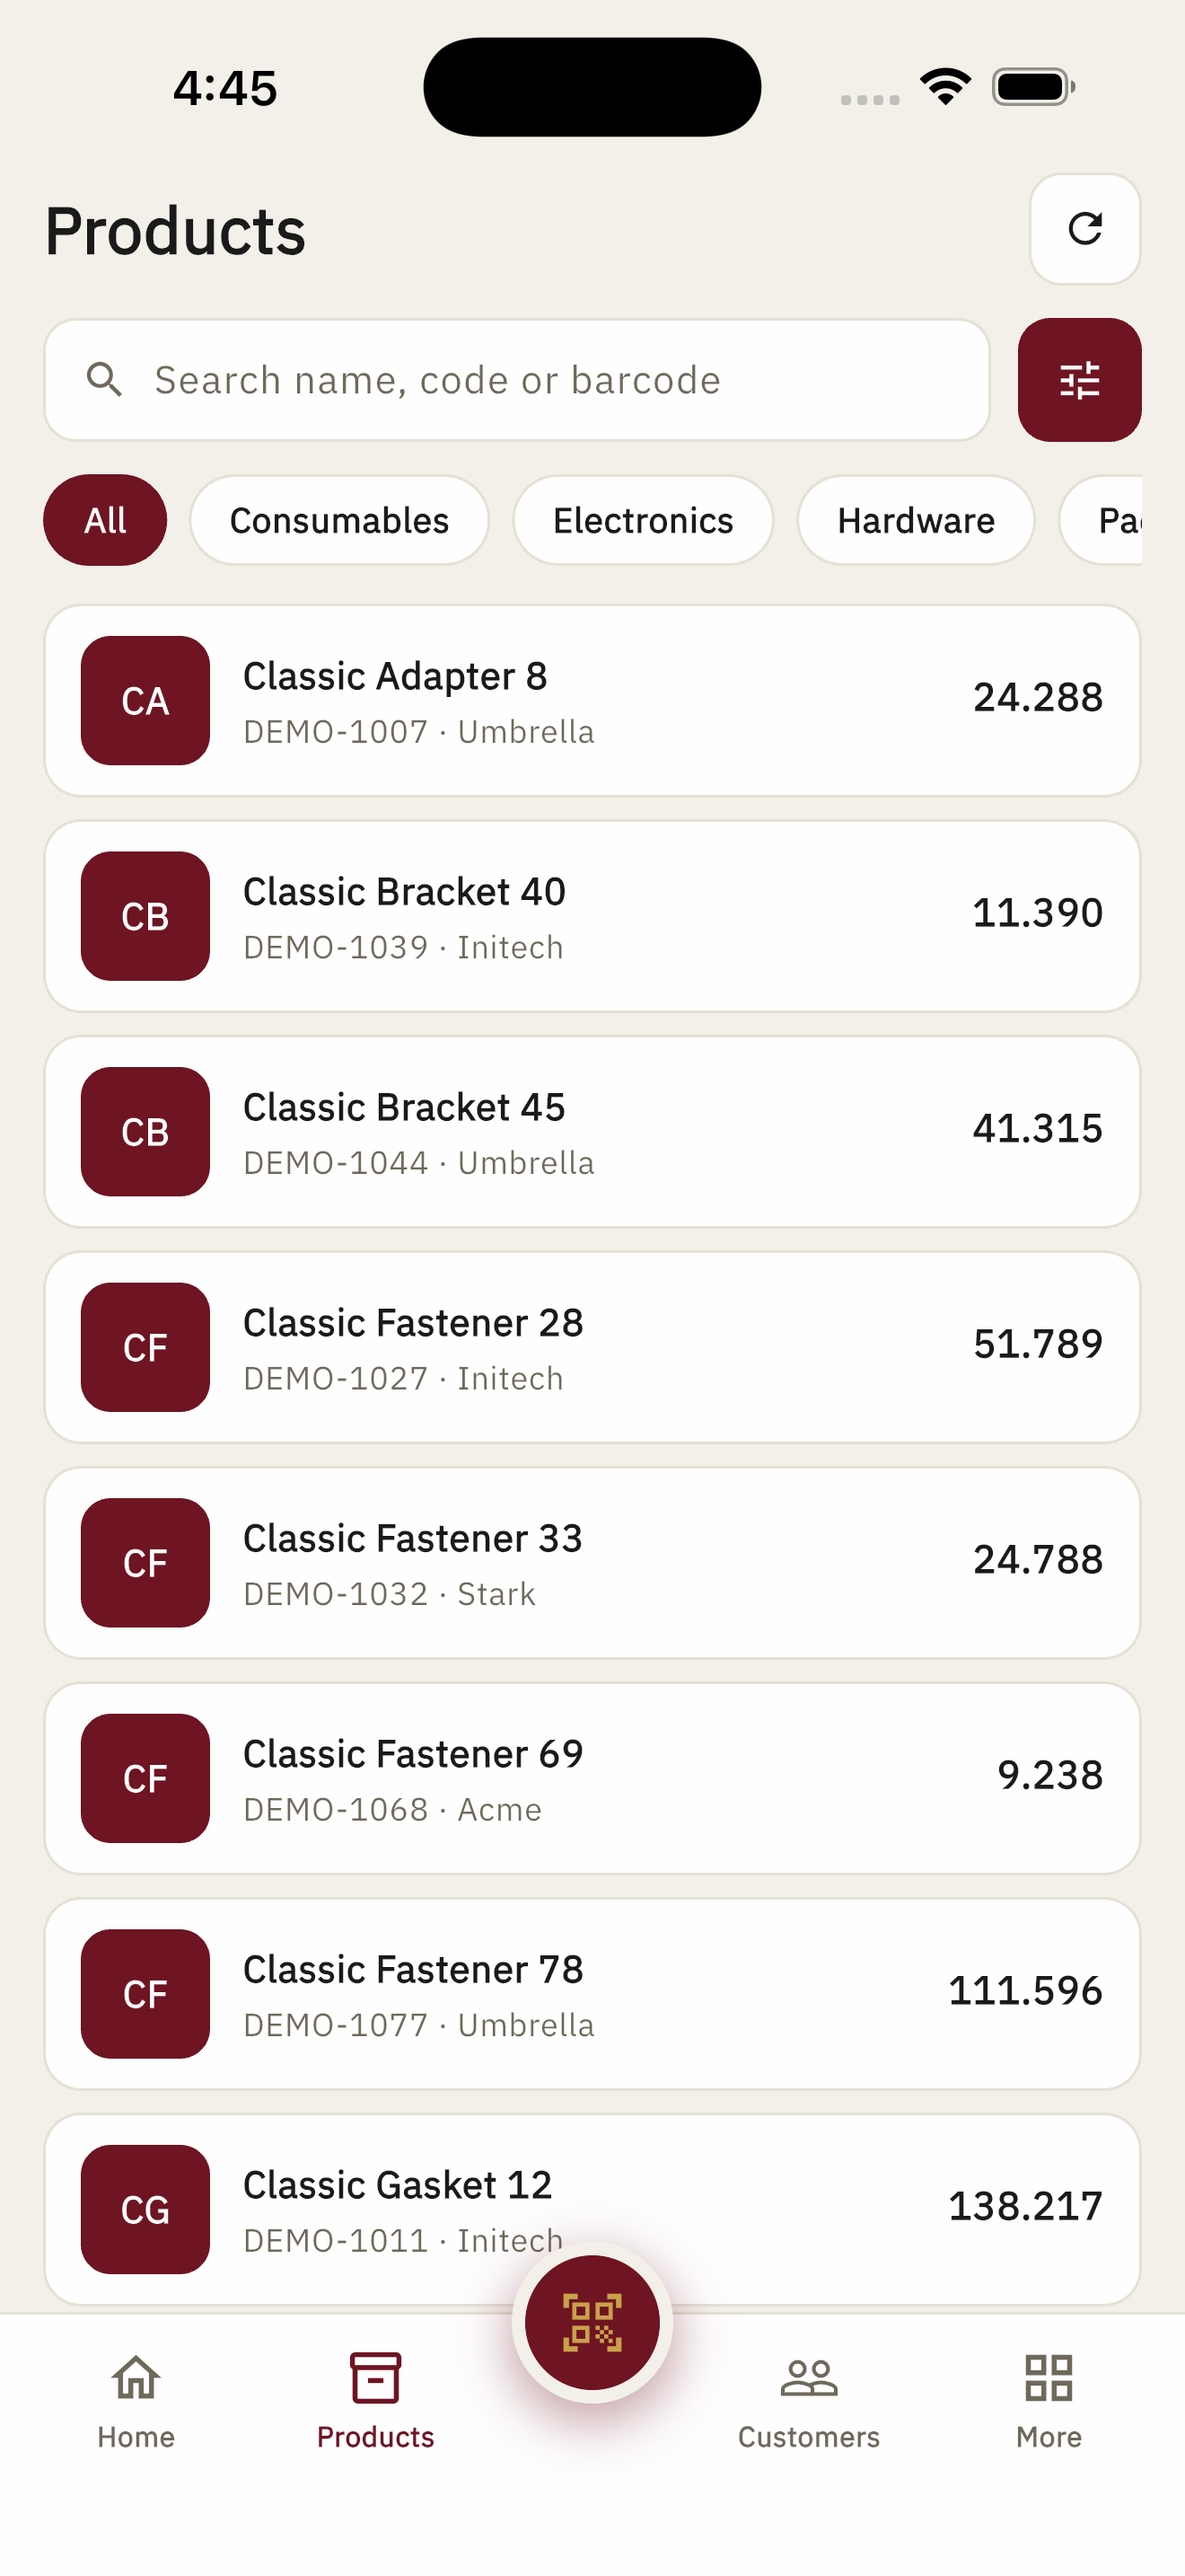
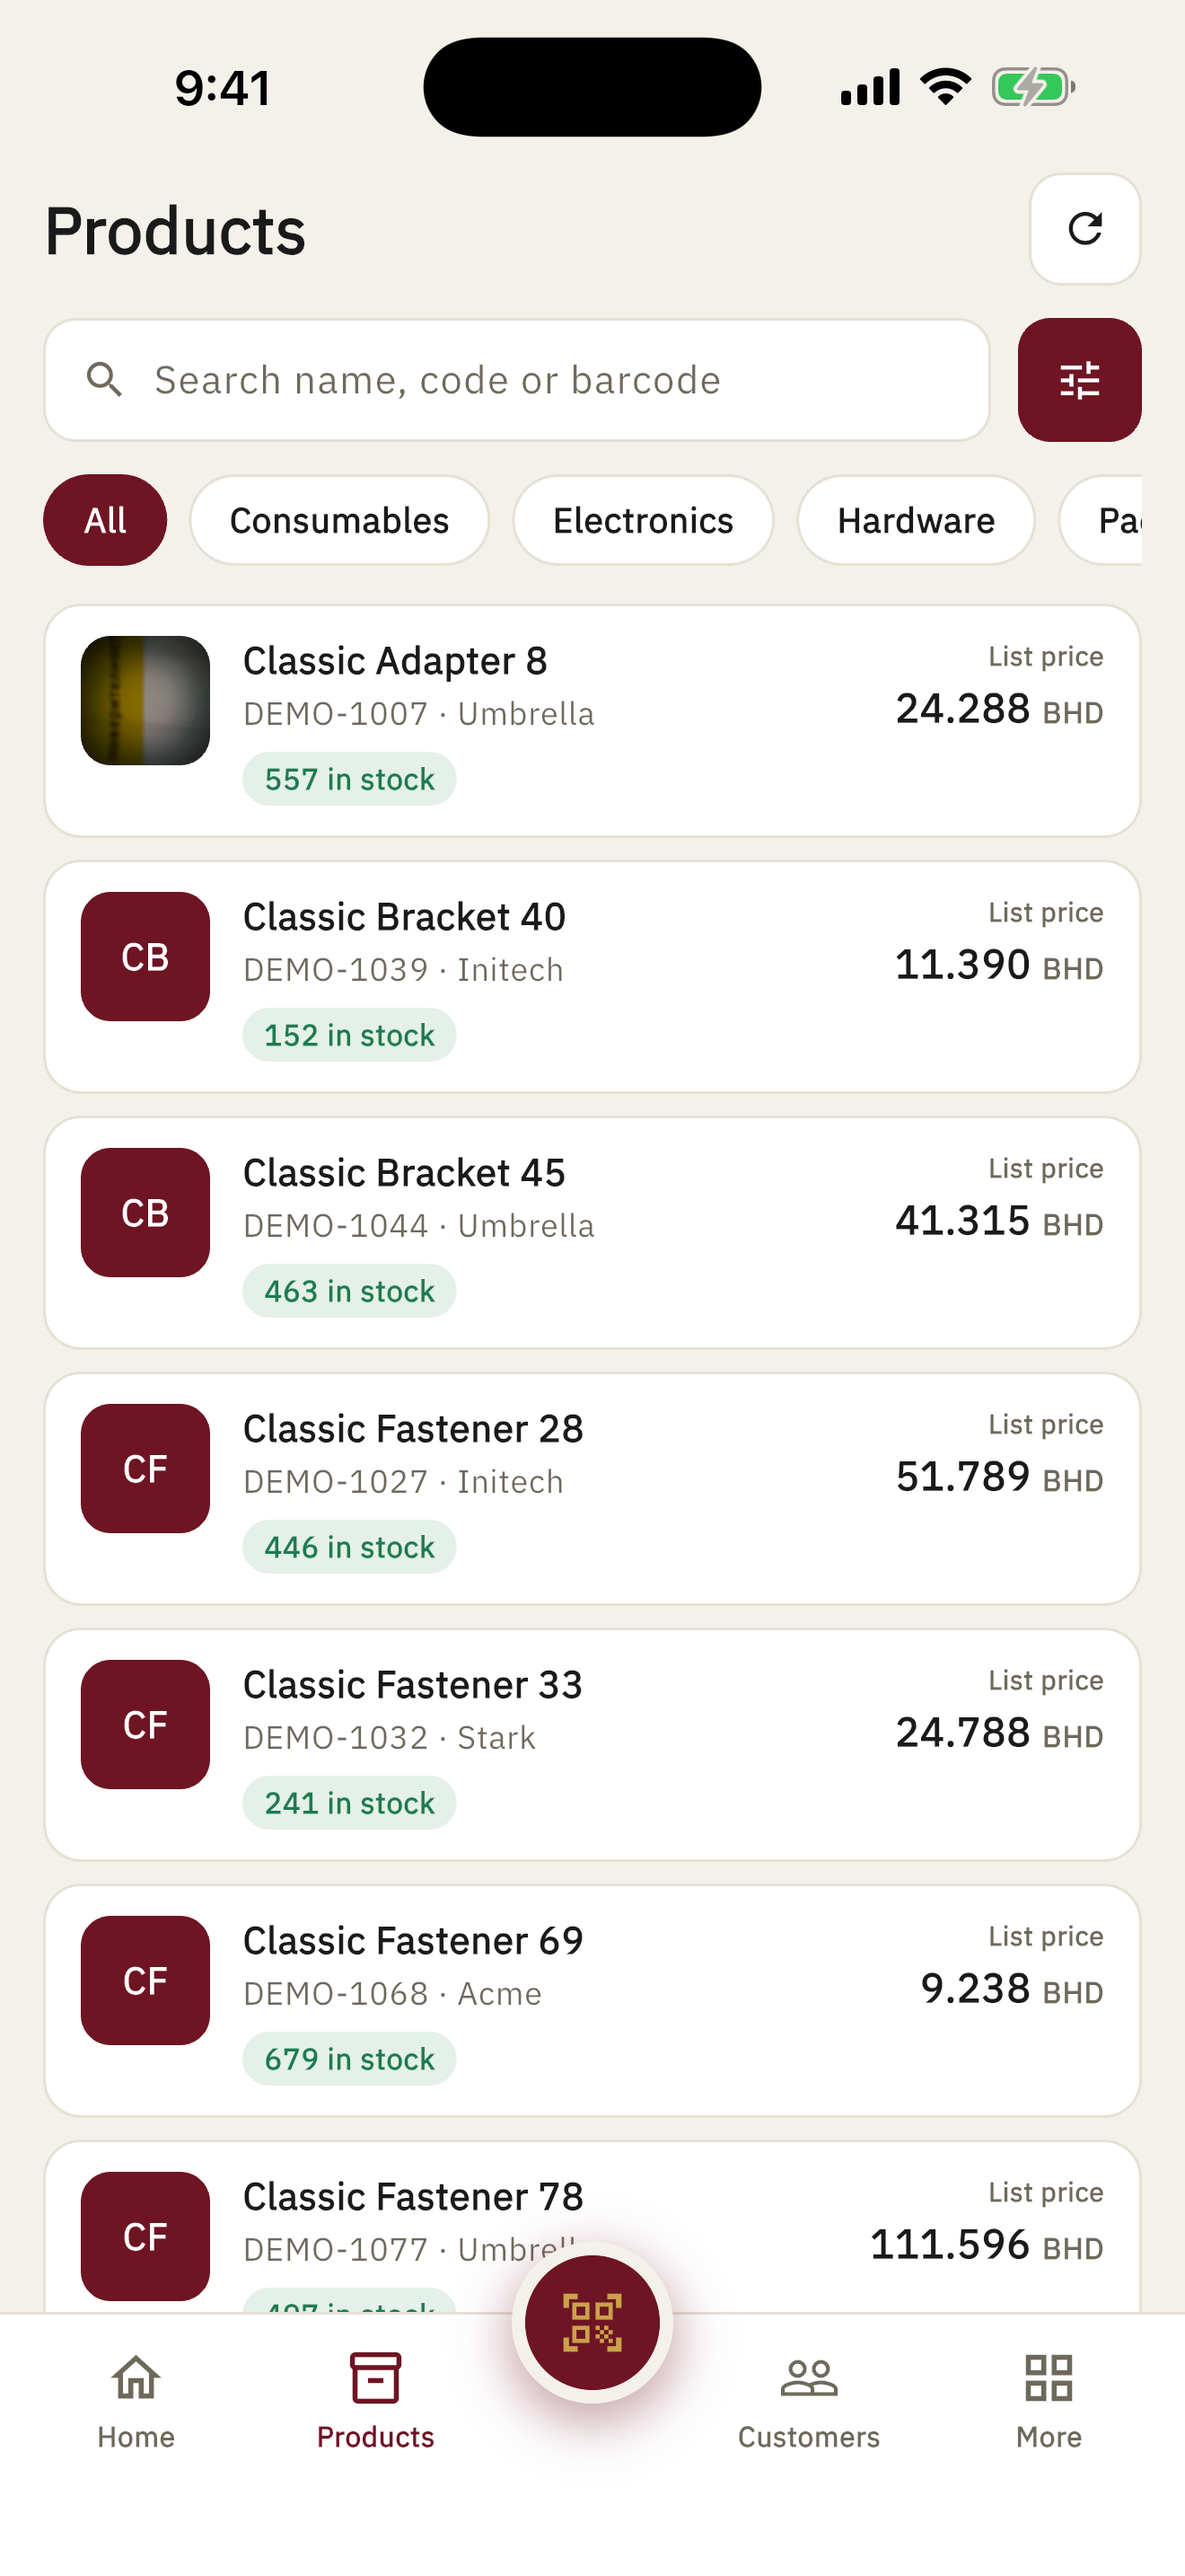
chore(ios): reshoot products screenshot for 2.9.0
The 6.9" products screenshot still showed the 2.7.0 list - no stock badges,
no "List price" label, no photo thumbnail - so none of the headline 2.9.0
changes were visible on the store page. Recaptured from the iPhone 17 Pro Max
simulator against the demo server, with a 09:41 status bar override.

Uploaded to App Store Connect and re-ordered into position 2.

Appendix E now documents the simulator capture route and its two traps:
simulator PNGs carry an alpha channel that ASC rejects (device captures do
not), and two screenshots in one set cannot share a fileName - the API
reports that as an opaque server-side error.

diff --git a/store_assets/APPSTORE_SUBMISSION.md b/store_assets/APPSTORE_SUBMISSION.md
@@ -610,6 +610,36 @@ Apple rejects screenshots that show only a login screen, a splash screen or an
 empty form, so put real data on screen before capturing. For `07` that meant a
 looked-up document plus a queued file whose name matches it.
 
+**The Simulator also works, and needs no physical device.** The **iPhone 17 Pro
+Max** simulator renders at exactly 1320 x 2868, so it drops in like a device
+capture. That is how `02_products.png` was reshot for 2.9.0:
+
+```
+xcrun simctl boot "iPhone 17 Pro Max"
+xcrun simctl install <udid> build/ios/iphonesimulator/Runner.app
+# clean, consistent status bar - Apple's own marketing time
+xcrun simctl status_bar <udid> override --time "09:41" \
+  --batteryState charged --batteryLevel 100 \
+  --cellularMode active --cellularBars 4 --wifiMode active --wifiBars 3
+xcrun simctl io <udid> screenshot shot.png
+```
+
+**Two gotchas:**
+
+1. **Simulator captures carry an alpha channel and App Store Connect rejects
+   them.** Device captures do not, which is why this never came up before. There
+   is no ImageMagick or PIL on this machine and a `sips` PNG->BMP->PNG round trip
+   *keeps* the alpha, so strip it with CoreGraphics - see
+   `deopaque.swift` in the session scratchpad, or inline:
+   `CGContext(..., bitmapInfo: CGImageAlphaInfo.noneSkipLast.rawValue)`, draw the
+   image, re-encode. Verify with `sips -g hasAlpha`.
+2. **Two screenshots in one set cannot share a `fileName`.** Reserving an upload
+   whose name matches an existing shot fails with a misleading *"An unexpected
+   error occurred on the server side"*. Upload under a new name
+   (`02_products_290.png`), then delete the old one and re-order the set with
+   `PATCH /v1/appScreenshotSets/{id}/relationships/appScreenshots`, which takes
+   the full ordered id list.
+
 ## Appendix D — App Store Connect API without altool
 
 `xcrun altool --generate-jwt` does not work in Xcode 26. Sign the ES256 JWT
